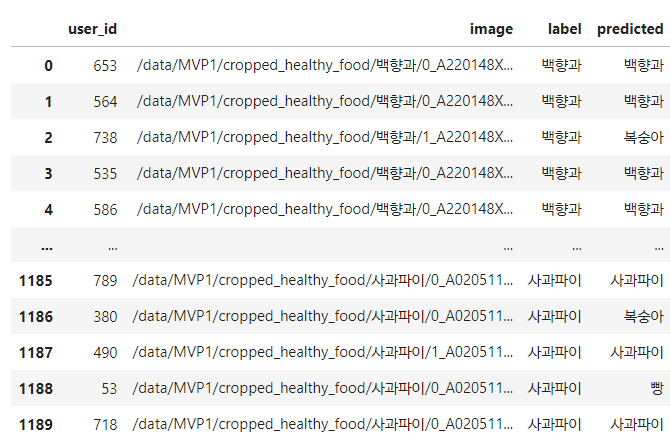
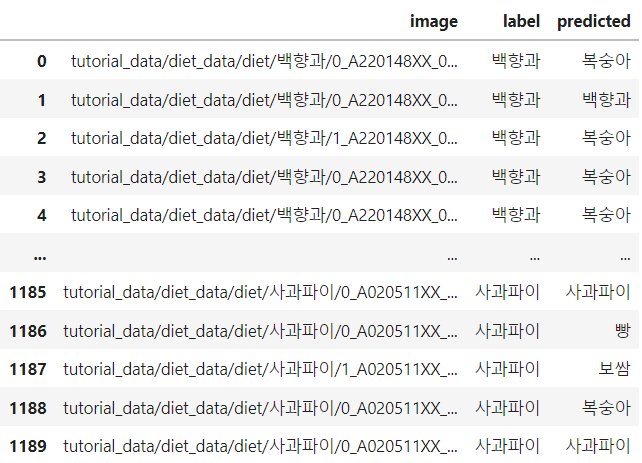
base search update

diff --git a/docs/tutorials/thanosql_search/image_search/select_image_query.md b/docs/tutorials/thanosql_search/image_search/select_image_query.md
@@ -61,7 +61,7 @@ OPTIONS (
     epochs=1
     )
 AS 
-SELECT images ->> 'img_path' image, images ->> 'category' label 
+SELECT *
 FROM diet
 ```
 
@@ -74,7 +74,6 @@ FROM diet
         - "image_col" : 이미지 경로를 담은 컬럼의 이름
         - "label_col" : 목표값의 정보를 담은 컬럼의 이름
         - "epochs" : 모든 학습 데이터 세트를 학습하는 횟수
-    - "__SELECT__" 쿼리 구문을 이용해서 **<mark style="background-color:#D7D0FF">images</mark> 컬럼 내에서 'img_path' 키(Key)**를 "image"로, **<mark style="background-color:#D7D0FF">images</mark> 컬럼 내에서 'category' 키**를 "label"로 선택합니다. ( images ->> 'img_path', images ->> 'category' )
 
 
 ## __3. 생성된 모델을 사용하여 키워드-이미지 검색 모델 확인__
@@ -85,7 +84,7 @@ FROM diet
 %%thanosql
 PREDICT USING diet_image_classification
 AS 
-SELECT user_id, images ->> 'img_path' image, images ->> 'category' label 
+SELECT *
 FROM diet
 ```
 
@@ -94,7 +93,6 @@ FROM diet
 
 !!! note "__쿼리 세부 정보__"
     - "__PREDICT USING__" 쿼리 구문을 통해 이전 단계에서 만든 <mark style="background-color:#E9D7FD ">diet_image_classification</mark> 모델을 예측에 사용합니다.
-    - "__SELECT__" <mark style="background-color:#D7D0FF">images</mark> 컬럼에서 'img_path'를 image로, 'category'를 label로 선택합니다.
 
 ## __4. 생성된 모델을 이용한 검색__ 
 
@@ -102,14 +100,15 @@ FROM diet
 
 ```sql
 %%thanosql
+%%thanosql
 SELECT * 
 FROM (
     PREDICT USING diet_image_classification
     AS 
-    SELECT user_id, images ->> 'img_path' image, images ->> 'category' label 
+    SELECT *
     FROM diet
     )
-WHERE label == predicted
+WHERE label = predicted
 AND label LIKE '사과파이'
 LIMIT 10
 ```
